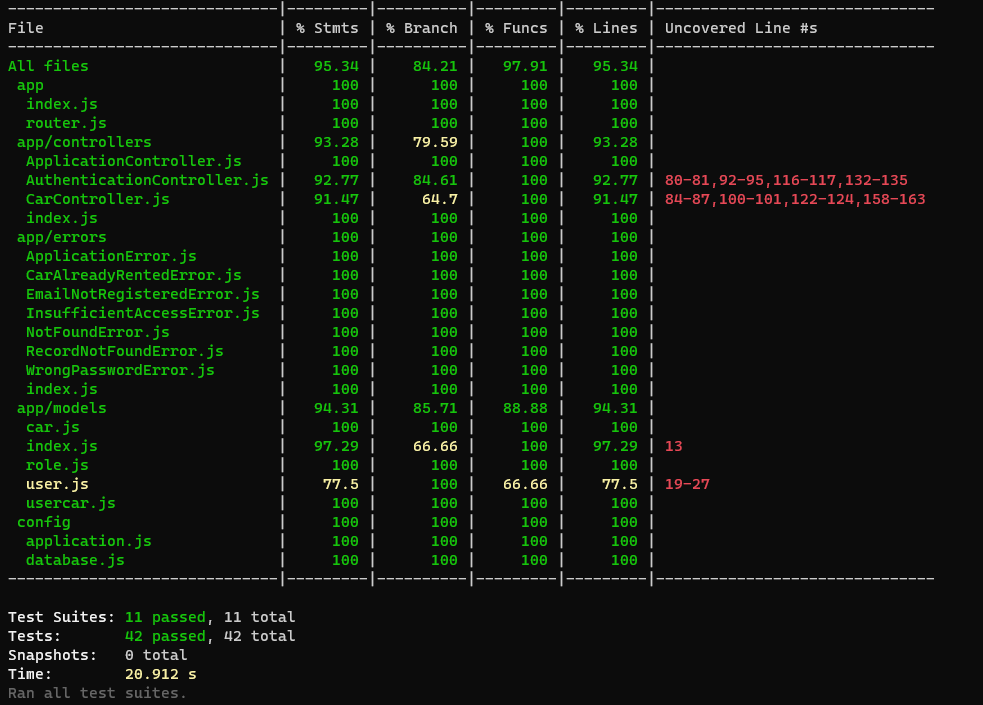
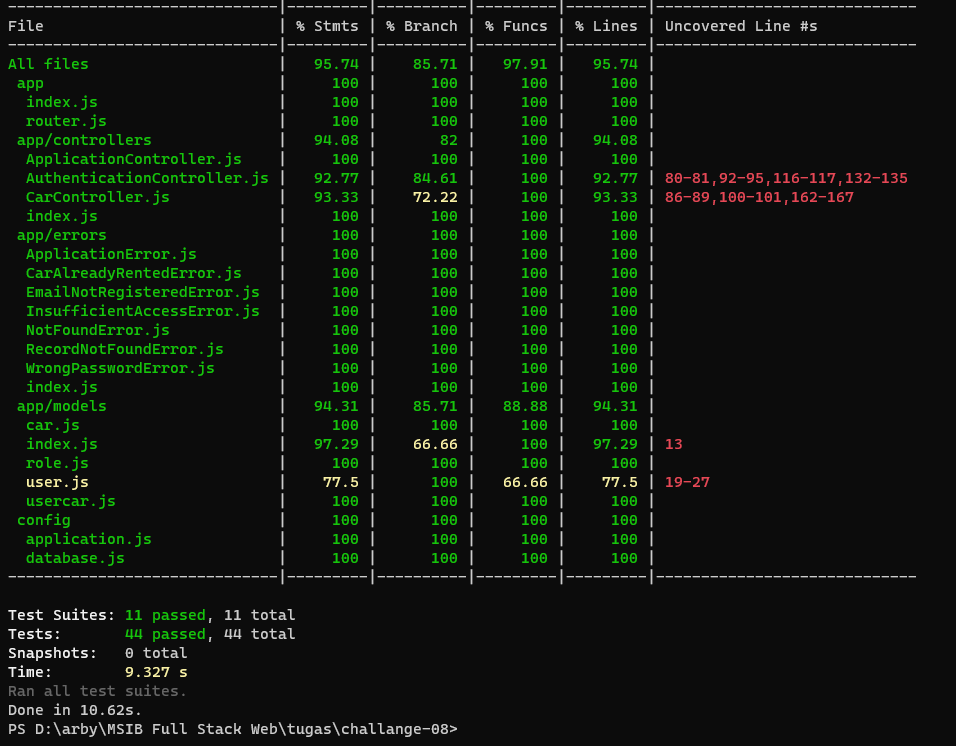
add unit test

Changed region(s): [[0.0, 0.0, 0.9404, 0.9986], [0.364, 0.8113, 0.3944, 0.8426]]

diff --git a/app/controllers/test/carConroller.spec.js b/app/controllers/test/carConroller.spec.js
@@ -368,6 +368,58 @@ describe("CarController", () => {
   });
 
   describe("handleUpdateCar", () => {
+    it("should res.status(200) and return updated car on success.", async () => {
+      const defaultMockCar = {
+        id: 1,
+        name: "Lambo",
+        price: "10000000",
+        size: "SMALL",
+        image:
+          "https://www.google.com/url?sa=i&url=https%3A%2F%2Fid.wikipedia.org%2Fwiki%2FBajaj&psig=AOvVaw2YLBkKGo8Z-OCJze25x5hf&ust=1668538058650000&source=images&cd=vfe&ved=0CBAQjRxqFwoTCPiQoOOqrvsCFQAAAAAdAAAAABAD",
+        isCurrentlyRented: false,
+        createdAt: "2022-11-1 09:44:35",
+        updatedAt: "2022-11-2 11:00:00",
+      };
+
+      const mockCarReq = {
+        name: "Lambo",
+        price: "10000000",
+        size: "SMALL",
+        image:
+          "https://www.google.com/url?sa=i&url=https%3A%2F%2Fid.wikipedia.org%2Fwiki%2FBajaj&psig=AOvVaw2YLBkKGo8Z-OCJze25x5hf&ust=1668538058650000&source=images&cd=vfe&ved=0CBAQjRxqFwoTCPiQoOOqrvsCFQAAAAAdAAAAABAD",
+        isCurrentlyRented: false,
+      };
+      const mockReq = {
+        body: mockCarReq,
+        params: {
+          id: 1,
+        },
+      };
+      const mockRes = {
+        status: jest.fn().mockReturnThis(),
+        json: jest.fn().mockReturnThis(),
+      };
+
+      const mockCarModel = {
+        findByPk: jest.fn().mockReturnValue(defaultMockCar),
+        update: jest.fn().mockReturnThis(),
+      };
+      const mockUserCarModel = {};
+
+      const controller = new CarController({
+        carModel: mockCarModel,
+        userCarModel: mockUserCarModel,
+      });
+
+      await controller.handleUpdateCar(mockReq, mockRes);
+
+      expect(mockCarModel.findByPk).toHaveBeenCalled();
+      expect(mockCarModel.update).toHaveBeenCalledWith(mockCarReq, {
+        where: { id: mockReq.params.id },
+      });
+      expect(mockRes.status).toHaveBeenCalledWith(200);
+    });
+
     // it("should update a car and status 200", async () => {
     //   const mockCar = new Car({
     //     id: 1,
@@ -474,10 +526,18 @@ describe("CarController", () => {
   });
 
   describe("#handleDeleteCar", () => {
-    it("should delete a car", async () => {
-      const mockCarModel = {
-        destroy: jest.fn().mockReturnValue(1),
-      };
+    it("should delete a car and resr.status(204)", async () => {
+      const mockCar = new Car({
+        id: 1,
+        name: "Lambo",
+        price: "10000000",
+        size: "SMALL",
+        image:
+          "https://www.google.com/url?sa=i&url=https%3A%2F%2Fid.wikipedia.org%2Fwiki%2FBajaj&psig=AOvVaw2YLBkKGo8Z-OCJze25x5hf&ust=1668538058650000&source=images&cd=vfe&ved=0CBAQjRxqFwoTCPiQoOOqrvsCFQAAAAAdAAAAABAD",
+        isCurrentlyRented: false,
+        createdAt: "2022-11-1 09:44:35",
+        updatedAt: "2022-11-2 11:00:00",
+      });
 
       const mockRequest = {
         params: {
@@ -486,20 +546,50 @@ describe("CarController", () => {
       };
 
       const mockResponse = {
-        status: jest.fn().mockReturnThis(),
-        json: jest.fn().mockReturnThis(),
-        end: jest.fn().mockReturnThis(),
+        status: jest.fn().mockReturnValue({
+          end: jest.fn(),
+        }),
       };
 
-      const carController = new CarController({
+      const mockDestroy = jest.fn().mockReturnValue(1);
+      const mockCarModel = {
+        findByPk: jest.fn().mockReturnValue({
+          ...mockCar,
+          destroy: mockDestroy,
+        }),
+      };
+
+      const controller = new CarController({
         carModel: mockCarModel,
+        userCarModel: {},
       });
+      await controller.handleDeleteCar(mockRequest, mockResponse);
 
-      await carController.handleDeleteCar(mockRequest, mockResponse);
-
-      expect(mockCarModel.destroy).toHaveBeenCalledWith(mockRequest.params.id);
+      expect(mockDestroy).toHaveBeenCalled();
       expect(mockResponse.status).toHaveBeenCalledWith(204);
-      expect(mockResponse.end).toHaveBeenCalled();
+    });
+
+    it("should res.status(404) ", async () => {
+      const mockRequest = {
+        params: {
+          id: 1,
+        },
+      };
+      const mockResponse = {
+        status: jest.fn().mockReturnValue({
+          end: jest.fn(),
+        }),
+      };
+      const mockCarModel = {
+        findByPk: jest.fn().mockReturnValue(false),
+      };
+      const controller = new CarController({
+        carModel: mockCarModel,
+        userCarModel: {},
+      });
+      await controller.handleDeleteCar(mockRequest, mockResponse);
+
+      expect(mockResponse.status).toHaveBeenCalledWith(404);
     });
   });
 
